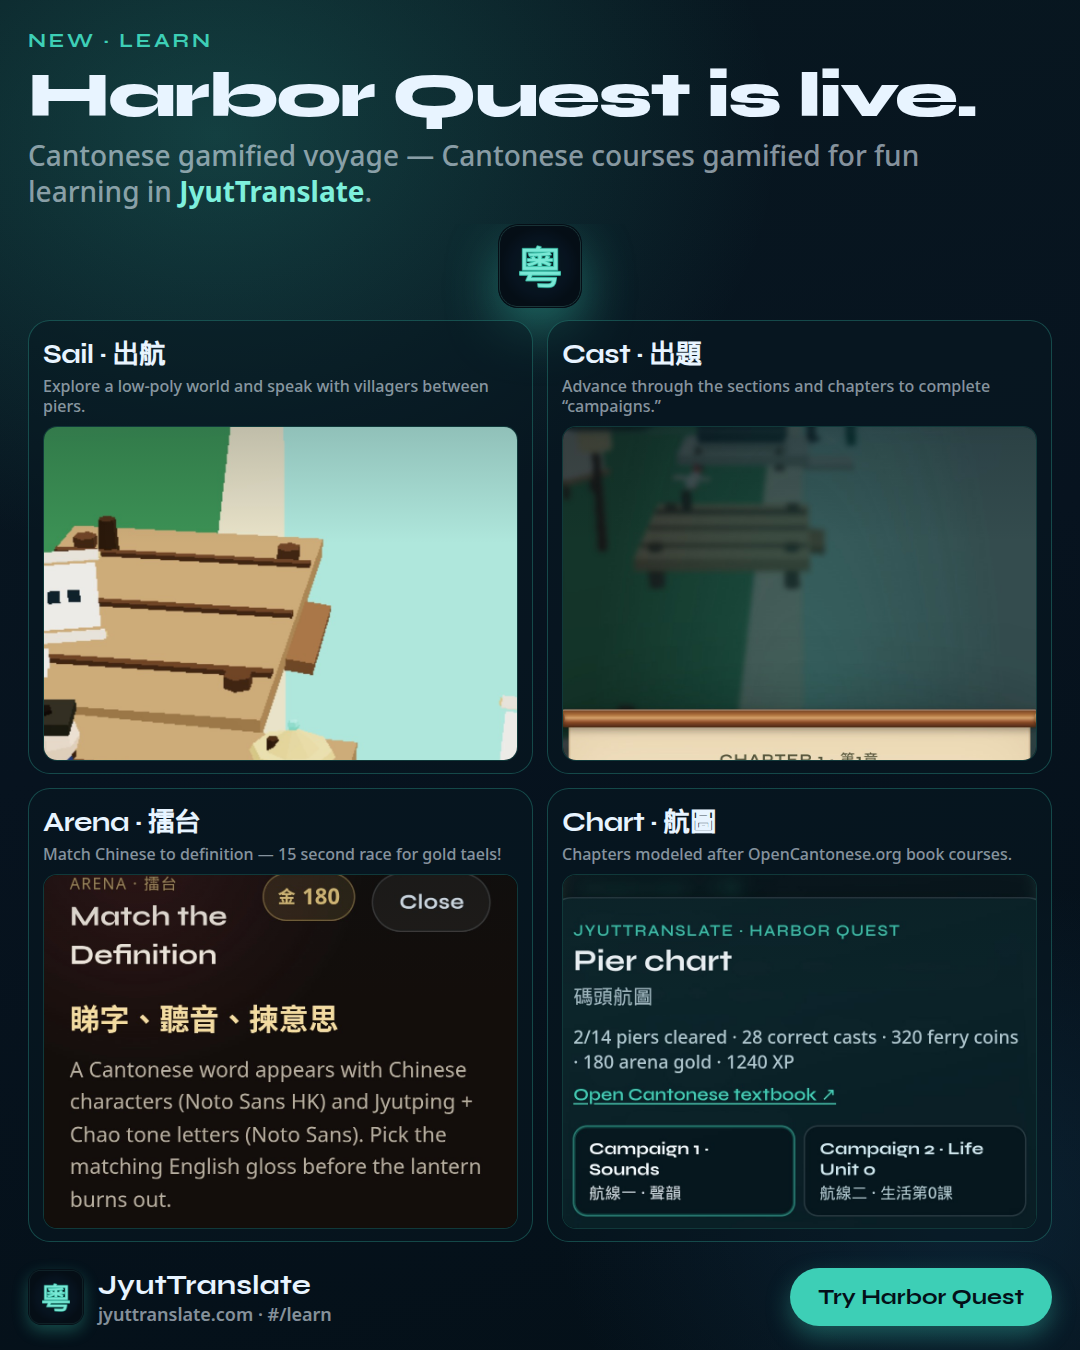
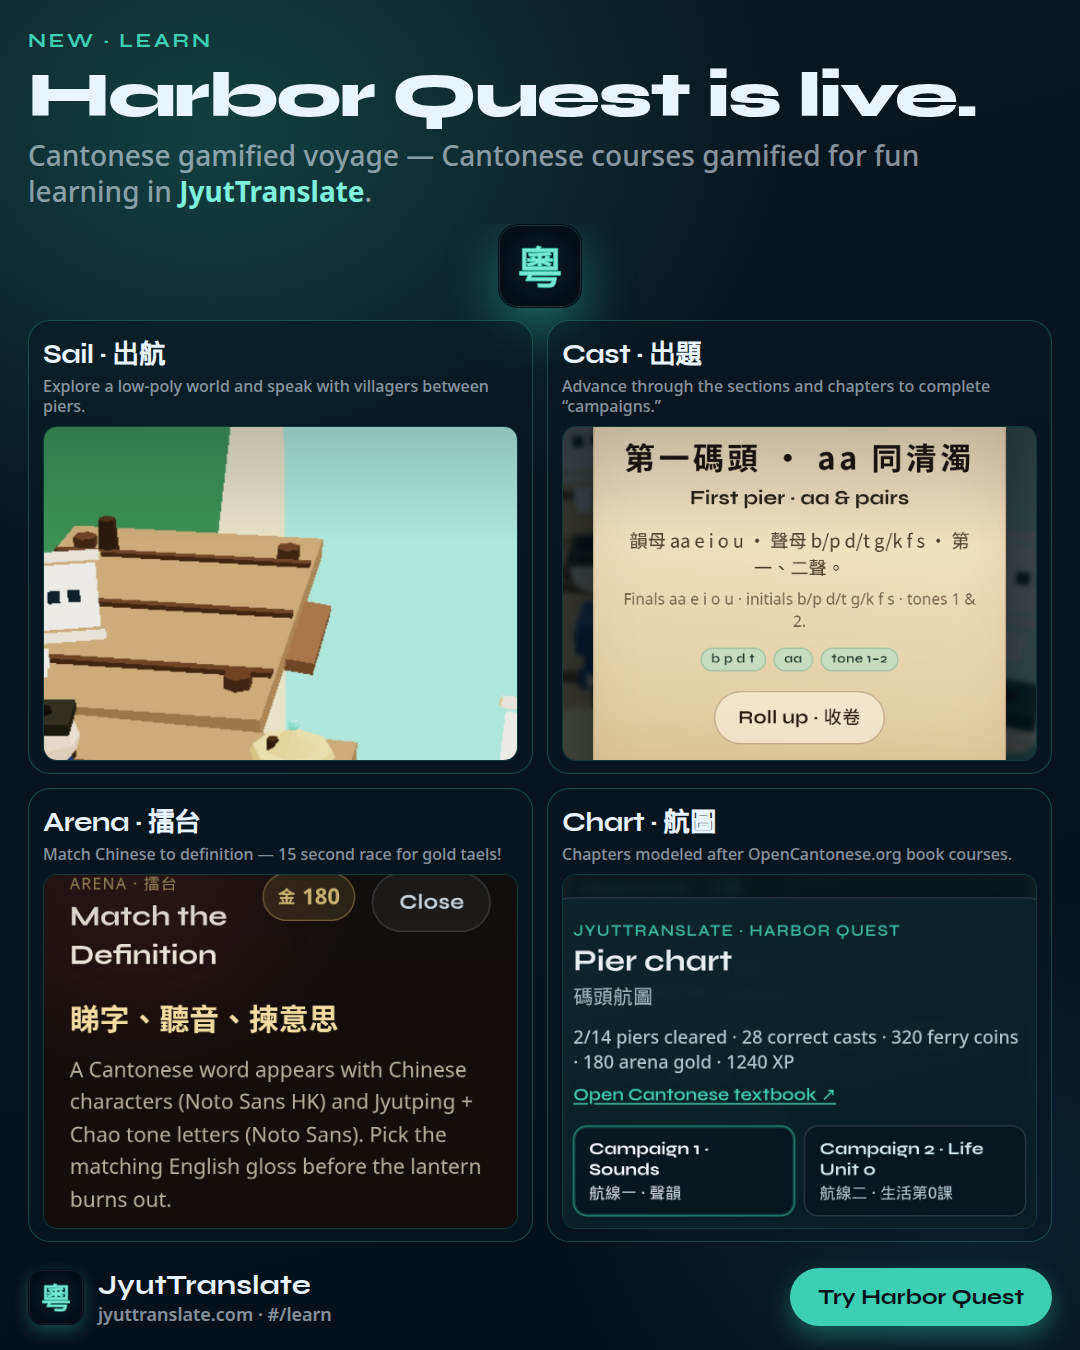
Harbor Quest cover: frame Cast peek on the chapter scroll
Shift the Cast card crop to the chapter body so the quest title, tips,
and tags show — not just the pier sky with a CHAPTER sliver.

Changed region(s): [[0.5194, 0.3111, 0.9778, 0.56]]

diff --git a/docs/social/ig-posts/harbor-quest.css b/docs/social/ig-posts/harbor-quest.css
@@ -367,7 +367,9 @@
 }
 
 .hq-ig__feature-shot--cast img {
-  object-position: center 6%;
+  /* Center on the chapter scroll body (title → tags), not the pier sky above it */
+  object-position: center 52%;
+  transform: scale(1.02);
 }
 
 .hq-ig__feature-shot--arena img {
